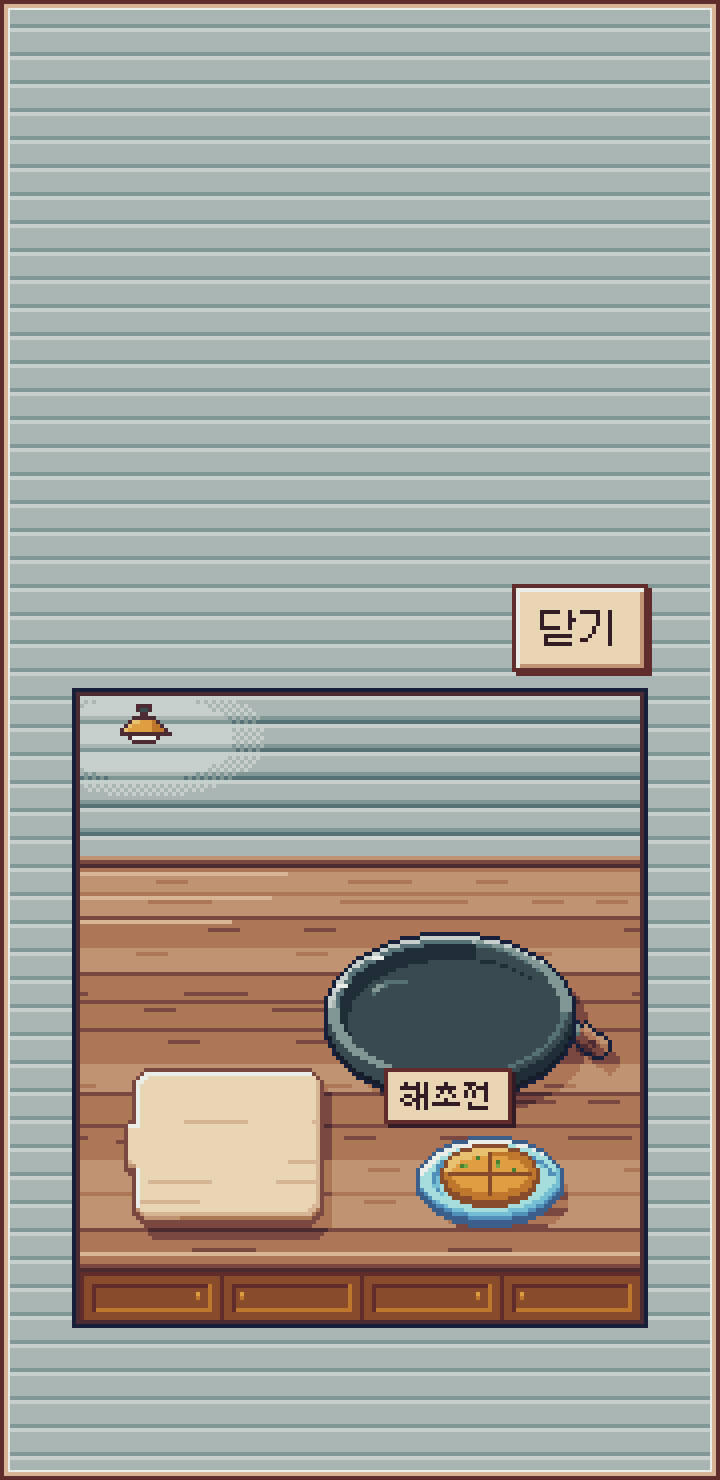
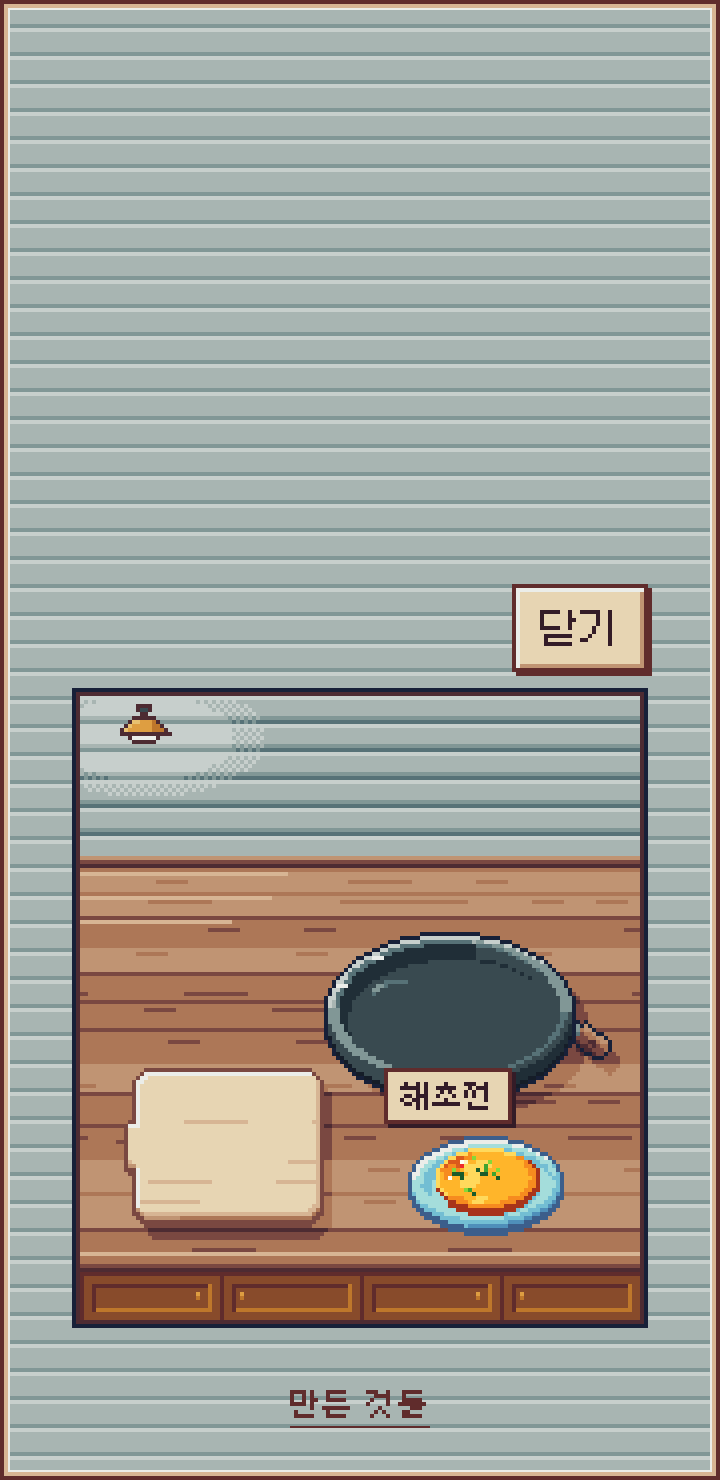
부엌 마저 마무리: 톡 소리 반복 고침 · 톳 전 초록 점 · 문서 캡처 다시 · 스모크 I-4 뿌리 고침
주인 (11-10): "요리 게임 마저 마무리해줄래?! 위에서 하던 거 있었자나."

wip/NEXT.md 에 적어 둔 '고칠 것' 여섯 가지와, 건너뛰었던 화면 독립 재검증에서 확인된 둘.

- 소리 (js/audio.js, 본 게임과 같은 코드): pick 이 고른 변형을 play 가 간격 문 · 동시 한도 ·
  건너뛰기로 버릴 때 '직전 것' 기록을 되돌린다 (unpick / dropped). 부엌 단추로 톡톡 하면 같은
  톡 소리가 두 번 이어지던 것. tools/test-cook-audio.js B 에 검사 하나 (113 → 114)
- 그림 (js/cook-art.js): 톳 전을 썰면 자른 면에 파래 초록 점이 찍히던 것 → 톳 색으로.
  동작 줄이기에서도 다음 그림을 미리 굽는다 (불 켜기 · 접시가 늦던 것. 그림은 같다)
- 시험: test-cook-live L6 의 소리 간격 예외를 SND_FREE 와 같게 · test-resume 이 '돌아와서 잠깐
  깨어 있음' 을 꺼 두고 본다 (전부터 떨어지던 5개) · smoke I-4 (새로고침 뒤 계절 유지) 가 가끔
  떨어지던 뿌리: 시험의 초기 스크립트가 문서 시작에 localStorage 를 읽던 것을 뺐다. 검사는
  다시 조건 없이 본다 · smoke A 의 쪽지 검사는 이번 산책의 쪽지를 연다
- 문서: docs/shots/cook 캡처 열 장을 새 그림으로 다시 찍음 · COOK_PROTO §8 · §12 · §14 ·
  요리를 합치기 게임으로 적던 세 곳 (DELEGATION_BRIEFS 카드 7 · CORE_LOOP_V2 C2 · ROADMAP) 에
  날짜 붙인 메모 · wip/NEXT.md 의 끝난 줄 지움
- 화면 독립 재검증 (반박 검증까지): 꼭 고칠 것 0. 확인된 작은 것 둘이 위의 그림 두 줄이다.
  소리 독립 재검증은 아직 하지 않았다

시험: npm test 통과, test-cook 192/0, test-cook-live 304/0, test-cook-audio 114/0.

Claude-Session: https://claude.ai/code/session_01Tq2y4Qs1m6rQuHdnUUvT5C

Changed region(s): [[0.55, 0.7459, 0.7944, 0.8392], [0.3972, 0.9324, 0.4889, 0.9635], [0.5194, 0.9324, 0.5806, 0.9635]]

diff --git a/tools/smoke.js b/tools/smoke.js
@@ -374,13 +374,15 @@ async function scenarioMain(browser) {
   await page.evaluate(function (d) { window.__ppolTest = { today: d }; }, dayAfter(1));   /* 새 날 → 그날 첫 차례라 등불이 켜진다 */
   await page.fill('#d-json', JSON.stringify([{ type: 'stay_home', t: 0, activity: 'count_rain', line: '창가에서 빗방울을 세다가 잠들었어', anchor: 'window' }, { type: 'wrap_up', t: 2000, reaction: '졸림' }]));
   await page.click('#d-import'); await skipAway(page); await waitIdle(page);
-  var home = await page.evaluate(function () { var t = APP.state.trips[APP.state.trips.length - 1]; return { kind: t.kind, type: t.poster && t.poster.type, trips: APP.state.octopus.trips, lantern: APP.state.room.lantern, log: document.getElementById('log').textContent }; });
+  var home = await page.evaluate(function () { var t = APP.state.trips[APP.state.trips.length - 1]; return { id: t.id, kind: t.kind, type: t.poster && t.poster.type, trips: APP.state.octopus.trips, lantern: APP.state.room.lantern, log: document.getElementById('log').textContent }; });
   ok(home.kind === 'home' && home.type === 'note', '집에 있는 날 → 쪽지');
   ok(home.log.indexOf('오늘은 집. 등불 +1') >= 0 && !/미안|아쉽/.test(home.log), "로그 '오늘은 집. 등불 +1', 사과 문구 없음");
   await openAlbum(page);
   await page.click('.fchip[data-f="note"]');
   ok((await page.$$('#album .pcard.note')).length >= 1, '앨범 필터 쪽지 → 쪽지 카드');
-  await page.click('#album .pcard.note'); await page.waitForSelector('#poster-dialog[open]');
+  /* 이 차례의 쪽지를 연다 (data-trip) — 앨범의 첫 쪽지가 아니다. 위 '두 번째 초대' 는 종류를 정해 두지 않아서 그날 시드와 시각에 따라 집에 있는 날이 된다
+     (js/brain.js stayProbability: 0~5시엔 +0.20 — CI 11-10 05:45 UTC 가 그랬다). 그러면 그 쪽지가 앨범에 먼저 있고, 그 뒷면은 '오늘은 집' 뿐이다 (그날 등불은 첫 초대가 이미 켰다) */
+  await page.click('#album .pcard.note[data-trip="' + home.id + '"]'); await page.waitForSelector('#poster-dialog[open]');
   ok((await page.textContent('#pd-back')).indexOf('오늘은 집. 등불 +1') >= 0, "쪽지 뒷면 '오늘은 집. 등불 +1'");
   await page.screenshot({ path: path.join(SHOTS, 'note-front.png') });
   await closePoster(page, true); await page.click('.fchip[data-f="all"]'); await closeAlbum(page);
@@ -693,9 +695,14 @@ async function scenarioDay2(browser) {
 
 /* I. 출발·귀가 의식 (DESIGN §15.3): 외출 초대 → 나가 있는 동안 바깥 → 귀가 의식 → 다락 → 포스터 걸림.
    건너뛰기 = 의식을 감아 다락으로. 나가 있는 중 새로고침 → 바깥을 한 번도 안 보이고 다락에서 즉시 귀가 */
-var PLACE_PROBE = "window.__lsLen0 = (function () { try { return localStorage.length; } catch (e) { return -1; } })(); window.__placeLog = []; (function poll() { try { if (window.APP && APP.scene && APP.scene.place) { var p = APP.scene.place(), L = window.__placeLog; if (L[L.length - 1] !== p) L.push(p); } } catch (e) {} setTimeout(poll, 16); })();";
+/* 초기 스크립트 (문서가 시작될 때, 페이지 스크립트보다 먼저 돈다) 에서는 localStorage 를 건드리지 않는다. 11-10 까지는 여기서 localStorage.length 를 읽어 두었다
+   (__lsLen0 — I-4 가 흔들려서 들여다보려던 것, 11-04). 그런데 크로미움에서는 바로 그 읽기가 그 문서의 저장소를 흔들었다: 문서가 빈 저장소로 시작하거나
+   그 문서가 쓴 값이 브라우저 쪽으로 넘어가지 않아서, 새로고침하면 지정 계절이 사라졌다 (11-10 에 따로 재 봄: 읽으면 새 문맥 60번 중 17번, 안 읽으면 40번 중 0번).
+   게임은 그렇게 일찍 저장소를 읽지 않는다 — 시험이 만든 경합이었다 */
+var PLACE_PROBE = "window.__placeLog = []; (function poll() { try { if (window.APP && APP.scene && APP.scene.place) { var p = APP.scene.place(), L = window.__placeLog; if (L[L.length - 1] !== p) L.push(p); } } catch (e) {} setTimeout(poll, 16); })();";
 /* 크로미움은 localStorage 쓰기를 브라우저 프로세스로 늦게 넘긴다. 넘어가기 전에 새로고침하면 새 문서가 예전 스냅숏을 읽는다 (CI 11-07: ls0 1, 지정 전 값).
-   같은 file:// 저장소를 보는 둘째 쪽(앱을 안 띄우는 JSON 파일)에서 값이 보일 때까지 기다린다. 끝내 안 보이면 저장이 정말 안 된 것 → false */
+   같은 file:// 저장소를 보는 둘째 쪽(앱을 안 띄우는 JSON 파일)에서 값이 보일 때까지 기다린다. 끝내 안 보이면 저장이 정말 안 된 것 → false.
+   (11-10: 그 CI 실패의 원인은 PLACE_PROBE 의 저장소 읽기였다 — 위. 이 기다림은 둘째 쪽에서도 값이 보이는지 확인하는 것으로 남긴다) */
 async function waitCommitted(ctx, key, test, ms) {
   var probe = await ctx.newPage(), until = Date.now() + (ms || 5000), seen = false;
   try {
@@ -805,15 +812,13 @@ async function scenarioCeremony(browser) {
   var ov = await page.evaluate(function () { return { season: APP.scene.season(), mode: APP.scene.seasonMode(), saved: JSON.parse(localStorage.getItem('ppolppol_look') || '{}').season }; });
   ok(ov.season === other[0] && ov.mode === other[0] && ov.saved === other[0], '지정 → scene.setSeason · ppolppol_look.season 저장 (' + JSON.stringify(ov) + ')');
   ok((await seasonLine()) === '계절: ' + other[1] + ' (지정)', '데모 패널: 계절: ' + other[1] + ' (지정)');
-  var keysBefore = await page.evaluate(function () { return localStorage.length; });
   var committed = await waitCommitted(s.ctx, 'ppolppol_look', function (v) { try { return JSON.parse(v || '{}').season === other[0]; } catch (e) { return false; } });
   await page.reload();
   await page.waitForSelector('#btn-go:not(.away)');
-  var ov2 = await page.evaluate(function () { var on = document.querySelector('#dv-season .fchip.on'); return { season: APP.scene.season(), on: on ? on.dataset.season : null, ls0: window.__lsLen0 }; });
-  /* 룩 설정(ppolppol_look)은 기록과 달리 탭 미러가 없다 → 크로미움 저장소 경합(H 원인과 같은 것: 페이지 안에선 써졌는데 브라우저 쪽 저장소로 안 넘어감)이 나면 지정이 사라지는 게 정상.
-     그 표시: (1) 다른 탭(probe)이 5초 안에 못 봄, 또는 (2) 새로고침 직후 키 수가 그 전보다 적음 — 계절 코드가 지울 수 없는 다른 키(ppolppol_ui)까지 같이 사라진다. 그때만 건너뛰고, 넘어간 판에선 늘 검사한다 (#41) */
-  if (!committed || ov2.ls0 < keysBefore) console.log('   (크로미움 저장소 경합: probe ' + (committed ? '봄' : '못 봄') + ' · 키 ' + keysBefore + ' → ' + ov2.ls0 + ' — 룩 설정 유지 검사 건너뜀)');
-  else ok(ov2.season === other[0] && ov2.on === other[0], '새로고침 뒤에도 지정 계절 유지 (' + JSON.stringify(ov2) + ')');
+  var ov2 = await page.evaluate(function () { var on = document.querySelector('#dv-season .fchip.on'); return { season: APP.scene.season(), on: on ? on.dataset.season : null }; });
+  /* 룩 설정(ppolppol_look)은 기록과 달리 탭 미러가 없다 → 저장소만 믿고 새로고침을 넘는다. 11-10 까지는 '크로미움 저장소 경합' 이 보이면 이 검사를 건너뛰었다 (#41).
+     그 경합은 이 시험의 초기 스크립트가 localStorage 를 읽어서 생긴 것이었고 (위 PLACE_PROBE), 이제 읽지 않으니 늘 검사한다. 둘째 쪽이 5초 안에 값을 못 본 것도 실패다 */
+  ok(committed && ov2.season === other[0] && ov2.on === other[0], '새로고침 뒤에도 지정 계절 유지 (' + JSON.stringify(ov2) + (committed ? '' : ' · 둘째 쪽이 5초 안에 못 봄') + ')');
   if (!(await page.evaluate(function () { return document.getElementById('demo').open; }))) await page.click('#demo summary');
   await page.click('#dv-season .fchip[data-season="auto"]');
   var ov3 = await page.evaluate(function () { return { mode: APP.scene.seasonMode(), saved: JSON.parse(localStorage.getItem('ppolppol_look') || '{}').season }; });

diff --git a/tools/test-cook-audio.js b/tools/test-cook-audio.js
@@ -10,7 +10,8 @@
  *     지글 0 루프 1 s 페이드인 → 3 s 노릇 = 지글 1 로 0.15 s 크로스페이드 + 치익(+4 dB) → 6 s 바삭 = 지글 2 → 위로 쓸기 = 뒤집기 한 번 + quiet 에
  *     루프 멈춤, 그 단계의 톡은 철퍽 뒤 → 썰기 2번 (변형 다름) → 접시 (+0.4 s) + 김 (+0.15 s) · 부엌 덕킹: 열려 있으면 음악 -6 dB, 지글 동안
  *     -10 dB, 닫으면 풀림 · 진짜 출력: 지글 동안 소리, 멈춘 뒤 조용 (음악 0)
- *  B. ?reduced=1 + 단추 길 (COOK.auto): 뒤집기는 휙을 건너뛴다 (off 0.21) · 접시는 공개와 같이 · 톡톡 i 0 · 3 · 6 의 빠르기
+ *  B. ?reduced=1 + 단추 길 (COOK.auto): 뒤집기는 휙을 건너뛴다 (off 0.21) · 접시는 공개와 같이 · 톡톡 i 0 · 3 · 6 의 빠르기 ·
+ *     단추를 많이 눌러도 (33번) 들린 톡 변형이 연달아 같지 않다 (한 번 누름에 tap 셋 — 버려진 둘이 '직전 것' 으로 남지 않는다)
  *  C. 소리 꺼짐 (기본): 손가락으로 한 판 내내 AudioContext 없음 · 재생 0 · audio/ · foley/ 요청 0
  *  D. 파일이 없다: foley/manifest.json 404 · foley/cook/* 404 → 조용히, 페이지 오류 0, 부엌 오류 0, 한 판 끝까지
  *  E. file:// + ?sound=1 → 조용히 (reason 'file' · 저장 안 함) · 오류 0
@@ -285,6 +286,31 @@ async function scenarioB(browser, base) {
   ok(pats.length === 3 && pats.every(function (x, j) { return Math.abs((x.rate || 1) - want[j]) < 0.002; }), '단추 길 톡톡 (한 번에 표시 하나 = i 0 · 3 · 6) 의 빠르기 ' + pats.map(function (x) { return x.rate || 1; }).join(', '));
   var lg = s.cook.log.map(function (x) { return x.ev + ':' + x.id; });
   ok(lg[0] === 'start:cook_sizzle_0' && lg[lg.length - 1] === 'stop:cook_sizzle_0' && ids(s, /^cook_heat_on_\d$/).length === 1, '단추로 불 켜고 바로 뒤집기: heat_on + 지글 0 → 멈춤 ' + lg.join(' '));
+  /* 단추를 많이 누른다. 단추 한 번 = 표시 하나 = tap 셋이 한 프레임에 와서 간격 문(80 ms)이 둘을 버린다 — 버려진 고르기가 '직전 것' 으로 남으면
+     들린 톡이 연달아 같아진다 (js/audio.js pick · play, 11-10). 톡톡 단계는 세 번 누르면 끝나니, 두 번 누르고 부엌을 닫았다 다시 연다
+     (하던 판은 그 단계 처음부터) × PAT_ROUNDS. 들린 것 = AUDIO.state().played */
+  var PAT_ROUNDS = 15, heard = pats.map(function (x) { return x.id; }), lastT = pats.length ? pats[pats.length - 1].t : 0;
+  await K.until(function (x) { return x.screen === 'counter'; }, 5000, 'counter');   /* COOK.auto 가 접시에서 조리대로 돌아온 뒤 */
+  for (var c = 0; c < PAT_ROUNDS; c++) {
+    await K.page.evaluate(function () { COOK.close(); });
+    await K.until(function (x) { return x.screen === 'closed'; }, 3000, 'closed');
+    await K.page.evaluate(function () { document.getElementById('ck-door').click(); });
+    await K.until(function (x) { return x.screen === 'counter'; }, 3000, 'counter');
+    await K.page.evaluate(function () { document.querySelector('.ck-prop').click(); });
+    await K.until(function (x) { return x.kind === 'tap' && x.phase === 'step' && x.st.hits === 0; }, 3000, 'tap step');
+    await wait(260);   /* 단계 처음 250 ms 는 단추를 받지 않는다 */
+    for (var k = 1; k <= 2; k++) {
+      for (var tries = 0; tries < 20; tries++) {   /* 그 누름이 세어질 때까지 (너무 이른 누름은 버려진다) */
+        await K.page.evaluate(function () { document.querySelector('.ck-verb').click(); });
+        await wait(130);
+        var lv = await K.live();
+        if (lv.st && lv.st.hits >= 3 * k) break;
+      }
+    }
+    ids(await K.st(), /^cook_pat_\d$/).forEach(function (x) { if (x.t > lastT) { heard.push(x.id); lastT = x.t; } });
+  }
+  ok(heard.length >= 3 + Math.floor(1.6 * PAT_ROUNDS) && heard.every(function (id, j) { return j === 0 || id !== heard[j - 1]; }),
+    '단추를 ' + (3 + 2 * PAT_ROUNDS) + '번 눌러도 들린 톡 변형이 연달아 같지 않다 (들린 톡 ' + heard.length + ': ' + heard.map(function (id) { return id.slice(-1); }).join('') + ')');
   noErrors(K, 'B');
   await K.close();
 }

diff --git a/js/audio.js b/js/audio.js
@@ -138,9 +138,11 @@ var AUDIO = (function () {
   var pre = {};   /* id → { f, p: Promise<ArrayBuffer> }: 켜 둔 채 부엌을 열면 첫 손길 전에 받아만 둔 첫 소리 (디코드는 AudioContext 가 생긴 뒤 load 에서) */
   function isBad(id) { var b = bad[id]; return !!(b && Date.now() < b.until); }
   function has(x) { return !!(x && (byId[x] || groups[x]) && !isBad(x)); }
+  var unpick = null;   /* 방금 pick 이 그룹에서 골랐으면 [그룹, 그 전의 lastPick] — play 가 그 소리를 걸지 않고 버릴 때 되돌린다 (dropped) */
   /* 정확한 이름이 먼저 (lantern_3 · chime_day), 아니면 그룹에서 직전과 다른 것 (시드 PRNG).
      못 받은 변형(isBad)은 고르지 않는다 — 둘짜리 그룹(뒤집기 · 불 켜기 · 접시)에서 하나가 없으면 번갈아 조용해지고 고를 때마다 다시 받았다 */
   function pick(x) {
+    unpick = null;
     if (Array.isArray(x)) x = x.length ? x[Math.floor(rnd() * x.length)] : null;
     if (!x) return null;
     if (byId[x]) return x;
@@ -150,9 +152,13 @@ var AUDIO = (function () {
     if (g.length === 1) return g[0];
     var c = g.filter(function (id) { return id !== lastPick[x]; });
     var p = c[Math.floor(rnd() * c.length)] || c[0];
+    unpick = [x, lastPick[x]];
     lastPick[x] = p;
     return p;
   }
+  /* play 가 고른 변형을 걸지 않고 돌아간다 (건너뛰는 중 · 간격 문 · 동시 한도): '직전 것' 기록을 고르기 전으로 되돌린다. 안 그러면 다음 고르기가
+     아무도 못 들은 변형과 견줘서, 들린 소리가 연달아 같을 수 있다 (부엌 단추 톡톡: 한 번 누름에 tap 셋이 80 ms 안에 와서 둘이 버려진다) */
+  function dropped() { if (unpick) { lastPick[unpick[0]] = unpick[1]; unpick = null; } return Promise.resolve(0); }
   function mp() { return (M && M.map) || {}; }
   function ev(path) { var o = mp(); for (var i = 0; i < path.length && o != null; i++) o = o[path[i]]; return o; }
   function busFor(s) {
@@ -338,16 +344,16 @@ var AUDIO = (function () {
     if (!o.direct && !active()) return Promise.resolve(0);
     var id = pick(x); if (!id) return Promise.resolve(0);
     var s = byId[id], g = s.group || id, bus = o.bus || busFor(s);
-    if (gs.skipping && !o.always && bus !== 'sfx_ui') return Promise.resolve(0);   /* 건너뛰는 중엔 귀가·등불만 */
+    if (gs.skipping && !o.always && bus !== 'sfx_ui') return dropped();   /* 건너뛰는 중엔 귀가·등불만 */
     var t0 = now(), tt = o.at || t0, gap = (s.min_gap_ms || 0) / 1000, beat = s.quantize === 'beat';
     /* 비 오는 날 나감 소리 덧층(depart_rain_extra)은 일부러 겹친다. 시간대 종은 곡 전환에 맞춘 자리 그대로 (다른 것이 피해 간다) */
     var queued = !o.direct && bus === 'sfx_event' && s.kind === 'jingle' && g !== 'depart_rain_extra', d = s.duration || 0.3;
     if (queued && g !== 'chime') tt = fitEv(Math.max(tt, t0 + 0.01), d, beat && !o.at, beat);
-    if (gap && lastAt[g] != null && Math.abs(tt - lastAt[g]) < gap) return Promise.resolve(0);
+    if (gap && lastAt[g] != null && Math.abs(tt - lastAt[g]) < gap) return dropped();
     /* 동시에 6개까지: 새 소리가 시작하는 순간 울리고 있을 것만 센다 (미리 예약한 말풍선 음절은 서로 겹치지 않는다) */
     shots = shots.filter(function (x) { return x.e > t0; });
     var over = shots.filter(function (x) { return x.s <= tt + 0.02 && x.e > tt; }).length;
-    if (over >= MAX_SHOTS + (bus === 'sfx_event' ? 2 : 0)) return Promise.resolve(0);
+    if (over >= MAX_SHOTS + (bus === 'sfx_event' ? 2 : 0)) return dropped();
     lastAt[g] = tt;
     shots.push({ s: tt, e: tt + d + 0.05 });
     var resv = null, at = o.at || 0, ready = load(id);

diff --git a/js/cook-art.js b/js/cook-art.js
@@ -993,7 +993,7 @@ var COOK_ART = (function () {
         if (kd(x + 1, y) || kd(x - 1, y) || kd(x, y + 1) || kd(x, y - 1)) pf(x, y, x / rx + y / ry > 0.55 ? 'J0' : 'J1');
       }
     }
-    return { buf: b, cx: cx, cy: cy, K: K, ID: ID, rx: rx, ry: ry, th: th, hero: [cx + hx, cy + hy], face: face, band: band, seed: seed };
+    return { buf: b, cx: cx, cy: cy, K: K, ID: ID, rx: rx, ry: ry, th: th, hero: [cx + hx, cy + hy], face: face, band: band, seed: seed, herb: herb };
   }
   /* the texture seed of a dish comes from what the player's hands did (the dents), so the pan, the board, the reveal, the
      counter plate and the notebook all show the same jeon without anyone passing a seed */
@@ -1084,13 +1084,13 @@ var COOK_ART = (function () {
     if (gap) gaps.forEach(function (g) {
       var x = g[0], y = g[1], col;
       if ((isOcc(x - 1, y) && isOcc(x + 1, y)) || (isOcc(x, y - 1) && isOcc(x, y + 1))) col = gap;
-      else if (isOcc(x, y - 1)) col = fc(ih(x, y, seed + 9) % 5 === 0 ? 'P1' : 'J5');
+      else if (isOcc(x, y - 1)) col = fc(ih(x, y, seed + 9) % 5 === 0 ? (J.herb === 'tot' ? 'T1' : 'P1') : 'J5');
       else if (isOcc(x, y - 2) && !isOcc(x, y - 1)) col = fc(T.side[0]);
       else col = C.w1;
       put(out, x, y, col);
     });
     faces.forEach(function (f) {
-      var q2 = f[2], col = q2 === 0 ? T.side[1] : q2 === 1 ? js(T.base, 1) : q2 === 3 ? T.side[0] : (ih(f[0], f[1], seed + 9) % 5 === 0 ? 'P1' : 'B1');
+      var q2 = f[2], col = q2 === 0 ? T.side[1] : q2 === 1 ? js(T.base, 1) : q2 === 3 ? T.side[0] : (ih(f[0], f[1], seed + 9) % 5 === 0 ? (J.herb === 'tot' ? 'T1' : 'P1') : 'B1');
       put(out, f[0], f[1], fc(col));
     });
     return { buf: out, ox: -J.cx - P, oy: -J.cy - P, gaps: gaps };
@@ -2120,7 +2120,7 @@ var COOK_ART = (function () {
     }
     if (o.arrow === 0 || o.arrow === 1) arrow(b, (sp ? sp[0] : GEO.rest.spatula[0]) + 1, (sp ? sp[1] : GEO.rest.spatula[1]) - 18, o.arrow);
     frame(b);
-    if (!arc && !still) prewarmFlip(band, herb, dl, tseed);
+    if (!arc) prewarmFlip(band, herb, dl, tseed);
     return b;
   }
 
@@ -2190,7 +2190,7 @@ var COOK_ART = (function () {
     }
     steamPass(b, function (px, py) { var X = px - x0, Y = py - y0; return X >= 0 && Y >= 0 && X < rb.w && Y < rb.h && rb.d[((Y * rb.w + X) << 2) + 3] ? 1 : 0; }, true);
     frame(b);
-    if (!still) prewarmReveal(band, herb, dl);
+    prewarmReveal(band, herb, dl);
     return b;
   }
   function lineIf(b, x0, y0, x1, y1, ok, c) {

diff --git a/tools/test-cook-live.js b/tools/test-cook-live.js
@@ -449,9 +449,9 @@ async function L6(browser) {   /* sound off is the main case: every counted inpu
   check(fi >= 0 && names.slice(fi + 1).indexOf('quiet') >= 0 && names.slice(fi + 1, fi + 3).indexOf('quiet') >= 0, 'L6: quiet right after the flip');
   var steps = acts.filter(function (x) { return x.p.act === 'step'; });
   check(steps.length === 3 && steps.every(function (x) { var k = names.indexOf('quiet', acts.indexOf(x)); return k === acts.indexOf(x) + 1; }), 'L6: every step end is followed by quiet');
-  var gaps = {};
-  acts.forEach(function (x) { var a = x.p.act; if (['step', 'done', 'pick', 'quiet'].indexOf(a) >= 0) return; if (gaps[a] != null && x.t - gaps[a] < 120) gaps.bad = (gaps.bad || 0) + 1; gaps[a] = x.t; });
-  check(!gaps.bad, 'L6: the same act is never sent twice within 120 ms');
+  var gaps = {}, FREE = ['tap', 'step', 'done', 'pick', 'quiet'];   /* js/cook.js SND_FREE: these skip the 120 ms gap (TUNE.sndGapMs) */
+  acts.forEach(function (x) { var a = x.p.act; if (FREE.indexOf(a) >= 0) return; if (gaps[a] != null && x.t - gaps[a] < 120) gaps.bad = (gaps.bad || 0) + 1; gaps[a] = x.t; });
+  check(!gaps.bad, 'L6: a rate-limited act (any but ' + FREE.join(', ') + ') is never sent twice within 120 ms');
   async function quietAfter(label, fn) {
     var n0 = await A.page.evaluate(function () { return window.__acts.length; });
     await fn(); await realWait(80); await A.go(100);   /* the dialog's close event comes on Chrome's next real frame */

diff --git a/docs/CORE_LOOP_V2.md b/docs/CORE_LOOP_V2.md
@@ -159,7 +159,7 @@
 | # | 화면에 보이는 것 | 사용자가 할 수 있는 것 | 문어가 하는 것 | 집 쪽지 |
 |---|---|---|---|---|
 | C1 | 문어가 다락 문으로 나가고 문이 닫힌다 (v1: 문까지 걸어가 체크무늬로 흐려져 사라진다. 0단계와 같은 사라짐). **화면은 다락에 남는다** | — | 나간다 | **묻지 않는다** (11-07: "기다리는 동안 뭐 할래?" 를 없앴다). 놀이방 문 · 화분 단추 · 소파는 늘 그 자리에 있다 |
-| C2 | 하고 싶은 것 (안 해도 된다) | **요리** (놀이방 부엌, 9물결): 냄비에 바다 재료를 떨어뜨린다. 같은 것끼리 합쳐진다. 가득 차면 "다 됐다!", 언제든 "이걸로 할래"로 끝낸다. 실패 없음<br>**다락방 달리기**·따로 헤엄 (놀이방)<br>**꾸미기** (그 방의 화분 단추, INTERIOR_MODE): 문어가 없으니 바로 놓인다<br>**앉아서 기다리기** (소파가 있으면 소파 톡, PHOTO_AND_FURNITURE §4.2)<br>**그냥 두기**: 비 오는 다락, 빈 담요, 등불 · 앱 닫기 | 밖에서 산책 중. 화면엔 안 보인다 | — |
+| C2 | 하고 싶은 것 (안 해도 된다) | **요리** (놀이방 부엌, 9물결): 냄비에 바다 재료를 떨어뜨린다. 같은 것끼리 합쳐진다. 가득 차면 "다 됐다!", 언제든 "이걸로 할래"로 끝낸다. 실패 없음 (11-10: 만든 것은 합치기가 아니라 단계 손동작 요리다 — 해초전을 톡톡 → 뒤집기 → 썰기, `cook.html` 단독 판. docs/COOK_PROTO.md)<br>**다락방 달리기**·따로 헤엄 (놀이방)<br>**꾸미기** (그 방의 화분 단추, INTERIOR_MODE): 문어가 없으니 바로 놓인다<br>**앉아서 기다리기** (소파가 있으면 소파 톡, PHOTO_AND_FURNITURE §4.2)<br>**그냥 두기**: 비 오는 다락, 빈 담요, 등불 · 앱 닫기 | 밖에서 산책 중. 화면엔 안 보인다 | — |
 | C3 | 산책 줄은 **봉해 둔다.** 대사 다시 보기에는 "다녀오는 중…" 한 줄만 있다 | — | — | — |
 | C4 귀가 | 문어가 다락 문 앞에 나타나 포스터 뒷면을 들고 보드 앞으로 와 선다. **바깥 장면으로 가지 않는다** (v1: 문 앞에 체크무늬로 나타난다. 걸어 들어오는 몸짓은 v1.2) | 놀이방·꾸미기 중이면 끊지 않는다 | 보드 앞에서 너를 기다린다. **타이머 없음** | 그 화면 구석 쪽지: "뚜루가 돌아왔어." [보러 가기] 하나 (꾸미기·놀이방도 같은 글. INTERIOR_MODE 가 이 문서를 따른다) |
 | C5 | [보러 가기] = 하던 것(냄비·달리기·꾸미기)을 멈춰 저장하고 문어 방으로 와 다시 만나기로 간다. 안 누르면 하던 것을 마저 하고, 끝내거나 놀이방에서 나오면 다시 만나기로 간다 (옛 [조금 더] 는 '안 누르기' 로 합쳤다) | | | → §3.4 |

diff --git a/wip/NEXT.md b/wip/NEXT.md
@@ -2,15 +2,6 @@
 
 브랜치 `ccr-38ad393e-15xr9t` · 실제 서비스 = 커밋 `9a544b1` (부엌 그림 · 소리 마무리). 그 뒤 커밋은 보관과 메모뿐이라 게임은 같다.
 
-## 고칠 것
-
-1. **CI 느린 검사 (선택) 가 빨강.** 본 게임 스모크 A,B,I 단계에서 떨어졌다. 어느 검사인지 아직 안 봤다 (run 42763765326 의 '느린 테스트' 로그에서 FAIL 줄). 전부터 흔들리던 I-4 '새로고침 뒤 계절 유지' 일 가능성이 크다. 그 뒤 단계 (장면 성능 84 · 부엌 화면 304 · 부엌 소리 113) 는 통과.
-2. **단추로 톡톡 하면 같은 톡 소리가 두 번 이어질 수 있다.** `js/audio.js` 의 `pick()` 이 변형을 고른 뒤 `play()` 의 간격 문이 버려도 고른 기록이 남는다. 버릴 때 되돌린다. 본 게임과 같은 코드라 `test-audio` · `test-cook-audio` 를 다시 돌린다.
-3. **`docs/shots/cook/` 캡처 열 장이 옛 그림.** `node wip/doc-shots.js . docs/shots/cook` 으로 다시 찍고, 눈으로 본 뒤 `docs/COOK_PROTO.md` §12 · §14 의 "아직 다시 찍지 않았다" 줄을 고친다.
-4. **`tools/test-resume.js` 5개 실패** (이번 일과 무관, 전부터). 시험 쪽에 `window.__ppolAwakeMs = 0` 이 필요하다.
-5. **시험의 작은 흠**: `tools/test-cook-live.js` L6 이 `tap` 을 아직 간격 제한 대상으로 본다 (지금은 무해).
-6. **문서 표류**: `docs/DELEGATION_BRIEFS.md` 카드 7 · `docs/CORE_LOOP_V2.md` C2 · `docs/ROADMAP.md` 157행이 요리를 아직 합치기 게임으로 적는다.
-
 ## 안 한 것
 
 - 부엌 독립 재검증 세 갈래 (폰에서 보기 · 소리 · 규칙). 사용량 때문에 건너뛰었다.

diff --git a/docs/DELEGATION_BRIEFS.md b/docs/DELEGATION_BRIEFS.md
@@ -106,6 +106,7 @@
 
 ## 카드 7. 요리 머지 미니게임 — 문어가 산책 간 동안 요리하기 (2026-11-07 고침 · 주인 11-07 뒤 '놀이방 부엌')
 
+**11-10 고침**: 이 카드의 합치기 놀이는 만들지 않았다. 9물결에서 요리는 단계 손동작 놀이로 만들었다 — 해초전 한 접시를 톡톡 → 뒤집기 → 썰기 (`cook.html` 단독 판, 조각 1). 지금 있는 것은 docs/COOK_PROTO.md 에 적혀 있다. 아래 카드 글은 옛 설계 그대로 둔다.
 언제: **지금** (새 파일만) · 크기 **L** · 본 게임 놀이방 부엌에 잇는 것은 9물결 (ROADMAP)
 **주 세션 쪽**: CORE_LOOP_V2 §5.1 금지 표의 '소리' 칸은 'AUDIO.on(이름, { act }) 한 줄' 로 고쳤다 (11-07). 본 게임에 이을 때 onEvent 를 AUDIO 로 다시 잇지 않는다 — 소리가 두 번 난다.
 

diff --git a/docs/ROADMAP.md b/docs/ROADMAP.md
@@ -154,7 +154,7 @@
 
 | 일 | 크기 | 누가 · 언제 |
 |---|---|---|
-| 요리 머지 시제품 | L | **카드 7** · 지금 |
+| 요리 머지 시제품 (11-10: 머지 대신 단계 손동작 요리로 만들었다 — 해초전 `cook.html` 단독 판, docs/COOK_PROTO.md) | L | **카드 7** · 지금 |
 | 헤엄 시제품 | L | **카드 8** · 결정 1 뒤 바로 |
 | 요리·헤엄 픽셀 소품 | L | **카드 10** · 지금 (Blender 있는 로컬) |
 | 종이 인형·지갑·가게 (v0-a) | L | 새 카드 16 · 지금 (새 파일만) |
